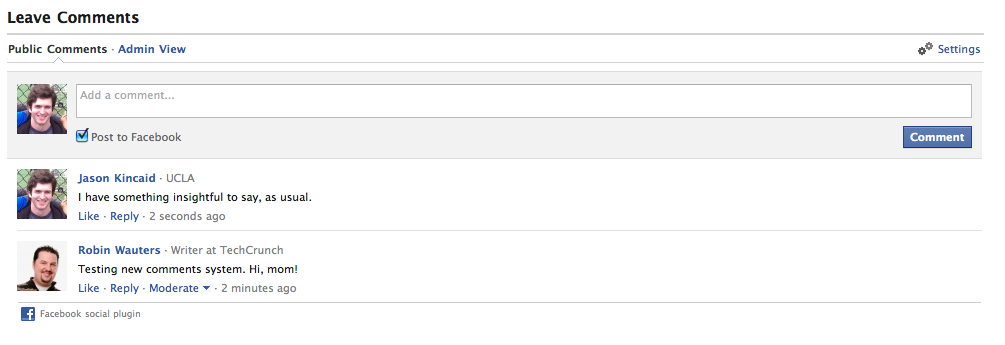
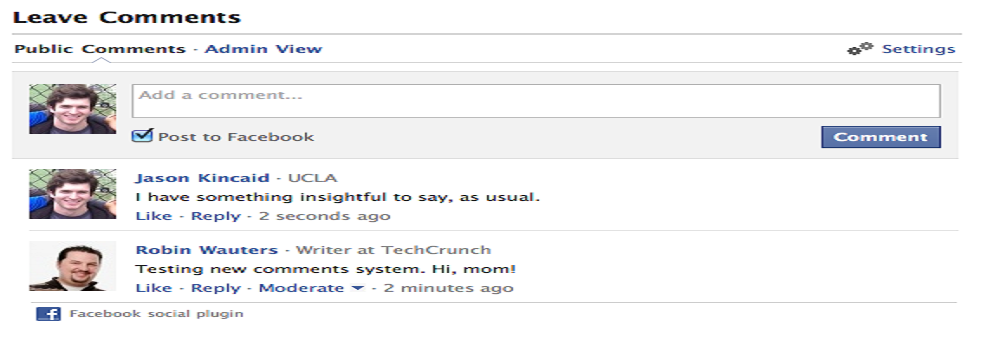
Accueil fix + 30% Page coureur + Fix Home

diff --git a/assets/css/coureur.css b/assets/css/coureur.css
@@ -3,3 +3,149 @@
 */
 
 @import url('./fonts.css');
+
+
+main {
+
+    background: linear-gradient(to bottom, #ffde00 45%,#f0f6ff 45%,  #ffffff 45%);
+    width: 100%;
+}
+
+.content {
+    width: 95%;
+    max-width: 1000px;
+    margin: 0 auto;
+    padding: 2.5rem 0;
+}
+
+.coureur {
+    display: flex;
+    align-items: flex-start;
+}
+
+.coureur__title {
+    display: flex;
+    flex-direction: column;
+    align-items: space-around;
+    margin-top: 30px;
+}
+
+.coureur__title .share {
+    margin-left: auto;
+    margin-bottom: 20px;
+}
+
+.coureur__title .share a {
+    font-family: "Nunito-Bold";
+    font-size:1rem;
+    color:#575859;
+    border-bottom: 3px solid #575859;
+    text-transform: uppercase;
+}
+
+.coureur__title h2 {
+    font-family: 'Montserrat-ExtraBold';
+    font-size: 2.5rem;
+    color: #575859;
+    text-transform: uppercase;   
+    margin-bottom: 20px;
+    word-spacing: 5px;
+}
+
+.coureur__title p {
+    font-family: 'OpenSans-Regular';
+    font-size: 1rem;
+}
+
+.coureur__title p span {
+    font-family: 'OpenSans-SemiBold';
+    font-size: 1rem;
+}
+
+.coureur__rsn {
+    display: flex;
+    justify-content: space-between;
+    margin-top: 3rem;  
+    width: 80%;  
+}
+
+.coureur__rsn figure {
+    background-color: #ffd800;
+    display: flex;
+    flex-direction: column;
+    align-items: center;  
+    padding: 20px;
+    width: 100px;
+    height: 100px;
+    
+}
+
+.coureur__rsn figcaption {
+    font-family: "Nunito-Regular";
+    font-size: 1rem;
+}
+
+.coureur__perso {
+    margin-left: auto;
+    background-color: red;
+}
+
+.perso__portrait {
+    display: flex;
+    justify-content: space-around;
+    align-items: center;
+}
+
+.perso__portrait img {
+    width: 5%;
+}
+
+
+.fiche {
+    display:flex;
+    justify-content: space-between;
+}
+
+.fiche h2{
+    font-family: 'Montserrat-ExtraBold';
+    font-size: 1.5rem;
+    color: #575859;
+    text-transform: uppercase;   
+    margin: 20px 0;
+    word-spacing: 5px;
+}
+
+.fiche h2:before{
+    content: "";
+    display: block;
+    width: 4rem;
+    border-top: 3px solid #ffda00;
+    padding-top: 10px;
+}
+
+.identite {
+    display: flex;
+    justify-content: space-between
+}
+
+.identite__item p {
+    font-family: "OpenSans-Bold";
+    font-size: 1rem;
+    color: #575859;
+    margin: 20px 0;
+}
+
+.identite__item p:after {
+    content: "";
+    display: block;
+    width: 3rem;
+    border-bottom: 3px solid #575859;
+    padding-bottom: 5px;
+}
+
+.identite__valeur p {
+    font-family: "OpenSans-SemiBold";
+    font-size: 1rem;
+    color: #575859;
+    margin: 20px 0;
+}

diff --git a/assets/css/home.css b/assets/css/home.css
@@ -174,22 +174,35 @@ section:nth-of-type(2n+1) {
 }
 
 .horsCourse__item figcaption {
-    font-family: "Nunito-Regular";
-    font-size: 1.5rem;
-    color: #575859;
     padding:0 20%;
     text-align: center;
     
 }
 
-.horsCourse__item figcaption:after {
-    content: "";
-    display: block;
-    margin: 0 auto;
-    width: 4rem;
+.horsCourse__item figcaption p {
+    font-family: "Nunito-Bold";
+    text-transform: uppercase;
+    font-size: 1.1rem;
+    color: #575859;
     border-bottom: 3px solid #575859;
-    padding-bottom: 20px;
+    padding: 10px 0;
 }
+
+.horsCourse__item figure:first-child img {
+    width:90%;
+}
+
+.horsCourse__item figure:first-child {
+    position: relative;
+}
+
+.horsCourse__item figure:first-child figcaption{
+    position: absolute;
+    bottom:0;
+    background-color: #575859;
+}
+
+
 
 
 /*

diff --git a/assets/css/article.css b/assets/css/article.css
@@ -97,7 +97,7 @@ figcaption p {
     margin: 20px 0;
 }
 
-.article__text p:{
+.article__text p:first-child{
     font-weight: bold;
 }
 

diff --git a/pages/coureur.php b/pages/coureur.php
@@ -12,6 +12,88 @@
 
 <main>
 
+    <section class="content">
+
+        <section class="coureur">
+            <img src="./../assets/img/detailCoureur/image1detailcoureur.png" alt="coureur">
+            <div class="coureur__title">
+                <div class="share">
+                    <a href="">Partager</a>
+                </div>
+                <h2>Thomas Voeckler</h2>
+                <p>alias <span>Ti Blanc ou Francis</span></p>
+                <div class="coureur__rsn">
+                    <figure>
+                        <img src="./../assets/img/detailCoureur/TV_facebook.png" alt="facebook">
+                        <figcaption>facebook</figcaption>
+                    </figure>
+                    <figure>
+                        <img src="./../assets/img/detailCoureur/TV_twitter.png" alt="twitter">
+                        <figcaption>twitter</figcaption>
+                    </figure>
+                    <figure>
+                        <img src="./../assets/img/detailCoureur/TV_instagram.png" alt="instagram">
+                        <figcaption>instagram</figcaption>
+                    </figure>
+                </div>
+                <div class="coureur__perso">
+
+                    <figure class="perso__portrait">
+                        <img src="./../assets/img/detailCoureur/TV_ico_portrait.png" alt="parchemin">
+                        <figcaption>
+                            <p>Lire le portrait écrit de Thomas Voeckler</p>
+                        </figcaption>
+                        <a href=""><img src="./../assets/img/home/next.svg" alt="arrow"></a>
+                    </figure>
+
+                    <figure>
+                        <figcaption></figcaption>
+                        <a href=""><img src="" alt="arrow"></a>
+                    </figure>
+                     
+                </div>
+        </section>
+
+        <section class="fiche">
+            
+            <div class="fiche__perso">
+                <h2>Fiche d'identité</h2>
+                <div class="identite">
+                    <div class="identite__item">
+                        <p>Age</p>
+                        <p>Date d'anniversaire</p>
+                        <p>Lieu de naissance</p>
+                        <p>Taille</p>
+                        <p>Poids</p>
+                    </div>
+                    <div class="identite__valeur">
+                        <p>36 ans</p>
+                        <p>22 juin 1979</p>
+                        <p>Schiltigheim (France)</p>
+                        <p>1m77</p>
+                        <p>66kg</p>
+                    </div>
+                </div>
+                <div class="palmares">
+                    <h2>Palmarès</h2>
+                </div>
+                
+                div
+
+            </div>
+            
+            <div class="playlist">
+                <h2>Découvrez sa playlist</h2>
+                <img src="./../assets/img/detailCoureur/spotify.png" alt="spotify">
+            </div>
+
+        </section>
+
+        </div>
+
+        
+
+    </section>
 
 </main>
 

diff --git a/pages/article.php b/pages/article.php
@@ -43,11 +43,11 @@
                     Accenderat super his incitatum propositum ad nocendum aliqua mulier vilis, quae ad palatium ut poposcerat intromissa insidias ei latenter obtendi prodiderat a militibus obscurissimis.</p>
 
                     <p>In tuto iam locata mariti salute muneratam vehiculoque inpositam per regiae ianuas emisit in publicum, ut his inlecebris alios quoque ad indicanda proliceret paria vel maiora.</p>
-                </div>
+                
 
-                <img src="./../assets\img\article/image2article.png" alt="photo2">
+                     <img src="./../assets\img\article/image2article.png" alt="photo2">
 
-                <div class="article__text">
+
                     <p>Haec igitur lex in amicitia sanciatur, ut neque rogemus res turpes nec faciamus rogati. Turpis enim excusatio est et minime accipienda cum in ceteris peccatis, tum si quis contra rem publicam se amici causa fecisse fateatur. 
                     Etenim eo loco, Fanni et Scaevola, locati sumus ut nos longe prospicere oporteat futuros casus rei publicae. Deflexit iam aliquantum de spatio curriculoque consuetudo maiorum.Auxerunt haec vulgi sordidioris audaciam, quod cum ingravesceret penuria commeatuum, famis et furoris inpulsu Eubuli cuiusdam inter suos clari domum ambitiosam ignibus subditis inflammavit rectoremque ut sibi iudicio imperiali addictum calcibus incessens et pugnis conculcans seminecem laniatu miserando discerpsit.</p>
 
@@ -69,7 +69,7 @@
 
                 <div class="comment">
                     <h2>Laisser un commentaire</h2>
-                    <img src="./../assets\img\article/image1facebook.png" alt="facebookTchat">
+                    <img src="./../assets\img\article/HC_facebookcomments.png" alt="facebookTchat">
                 </div>
 
                 

diff --git a/pages/home.php b/pages/home.php
@@ -87,27 +87,37 @@
 
     <section class="horsCourse">
         <div class="content">
+
             <h2>Hors-Course</h2>
+            
             <div class="horsCourse__item">
 
             <figure>
-                    <!-- <img src="./../assets/img/home/image6accueil.png" alt="cycliste"> -->
-                    <figcaption>Lorem ipsum dolor sit amet consectetur...</figcaption>
+                    <img src="./../assets/img/home/image6accueil.png" alt="cycliste">
+                    <figcaption>
+                            <p>Lorem ipsum dolor sit amet conse...</p>
+                    </figcaption>
             </figure>
 
             <figure>
                     <img src="./../assets/img/home/image11accueil.png" alt="micro">
-                    <figcaption>Indiscrétion</figcaption>
+                    <figcaption>
+                            <p>Indiscrétion</p>
+                    </figcaption>
             </figure>
 
             <figure>
                     <img src="./../assets/img/home/image8accueil.png" alt="velo">
-                    <figcaption>Le vélo pour les nuls</figcaption>
+                    <figcaption>
+                            <p>Le vélo pours les nuls</p>
+                    </figcaption>
             </figure>
 
             <figure>
                     <img src="./../assets/img/home/image9accueil.png" alt="roue">
-                    <figcaption>Tactique & Technique</figcaption>
+                    <figcaption>
+                            <p>Tactique & technique</p>
+                    </figcaption>
             </figure>
 
             </div>
